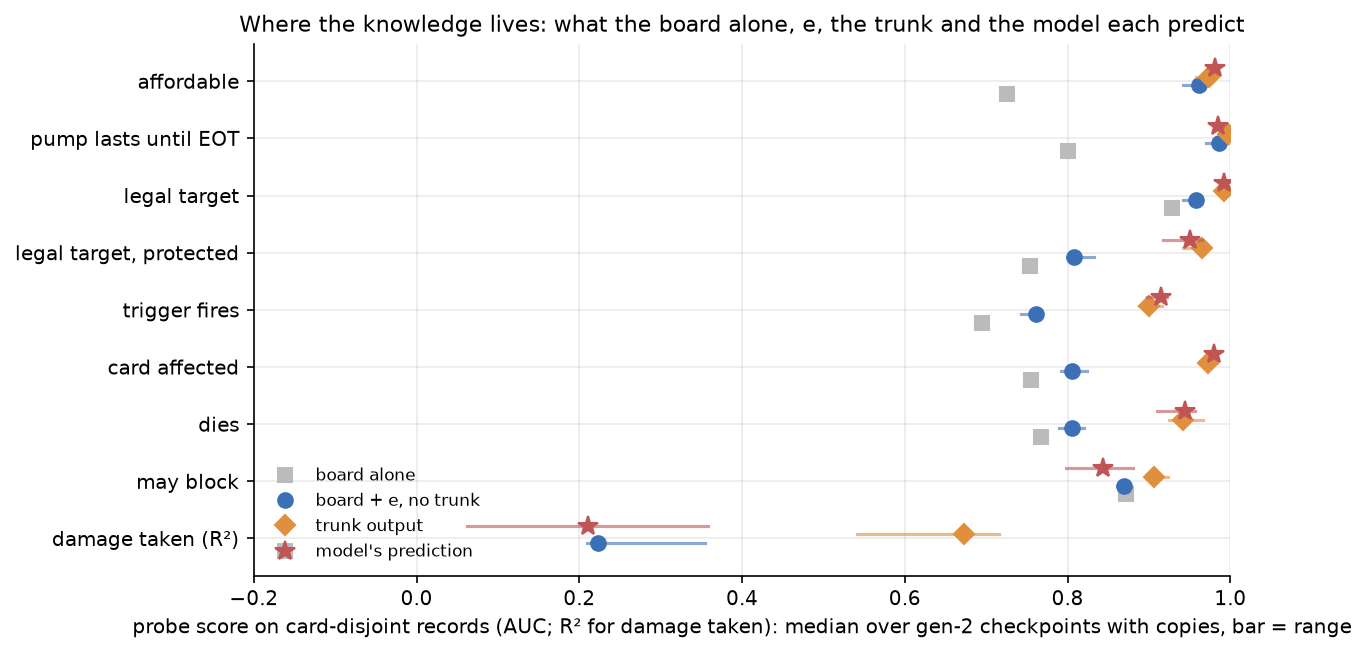
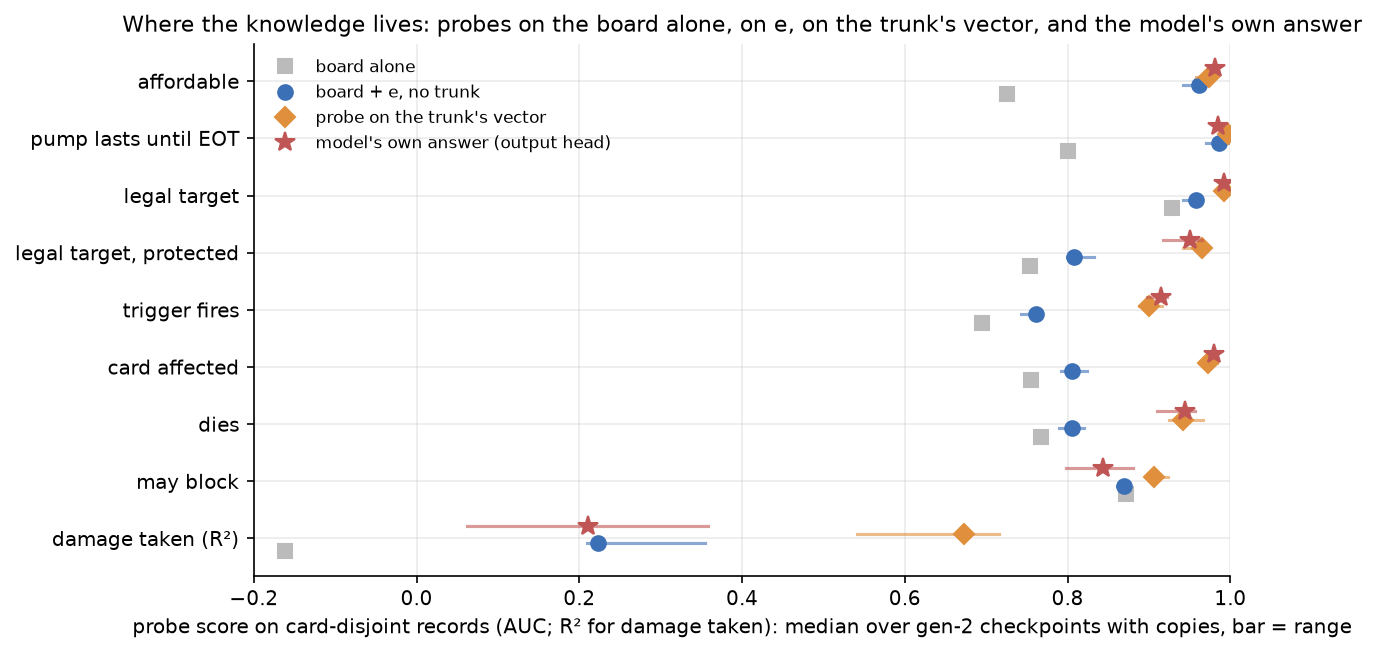
docs(effects): probes record says rung 2 is a probe on the trunk's vector and rung 3 the model's own answer, and what a gap between them means

diff --git a/scripts/effect_gen2_report/make_charts.py b/scripts/effect_gen2_report/make_charts.py
@@ -573,7 +573,8 @@ def ladder() -> None:
     gen2 = present(CHECKPOINTS[3:], lad.checkpoint)
     fig, ax = plt.subplots(figsize=(8.4, 4.6))
     styles = {"0": ("board alone", "#bbbbbb", "s"), "1": ("board + e, no trunk", "#3b6fb6", "o"),
-              "2": ("trunk output", "#e08f3c", "D"), "3": ("model's prediction", "#c05555", "*")}
+              "2": ("probe on the trunk's vector", "#e08f3c", "D"),
+              "3": ("model's own answer (output head)", "#c05555", "*")}
     for i, (target, label) in enumerate(targets):
         y = len(targets) - 1 - i
         for k, (rung, (name, colour, marker)) in enumerate(styles.items()):
@@ -589,9 +590,9 @@ def ladder() -> None:
     ax.set_xlim(-0.2, 1.0)
     ax.set_xlabel("probe score on card-disjoint records (AUC; R² for damage taken): median "
                   "over gen-2 checkpoints with copies, bar = range")
-    ax.legend(fontsize=8, loc="lower left")
-    ax.set_title("Where the knowledge lives: what the board alone, e, the trunk and the model "
-                 "each predict")
+    ax.legend(fontsize=8, loc="upper left")
+    ax.set_title("Where the knowledge lives: probes on the board alone, on e, on the trunk's "
+                 "vector, and the model's own answer")
     save(fig, "probe-ladder")
 
 

diff --git a/experiments/2026-09-19-effect-knowledge-probes-design.md b/experiments/2026-09-19-effect-knowledge-probes-design.md
@@ -6,7 +6,7 @@ Where knowledge lives matters because `e` is the part that gets reused. A future
 
 The suite has three kinds of measurement:
 
-- **The read-out ladder** fits small probes to inputs taken from progressively deeper in the model, from the board alone up to the model's own prediction, and measures how much of the model's knowledge `e` alone carries.
+- **The read-out ladder** fits small probes to inputs taken from progressively deeper in the model, from the board alone through the trunk's internal vectors, and sets them beside the answer the model itself gives. It measures how much of the model's knowledge `e` alone carries.
 - **Ablations** replace `e` in the trained model and measure how much each output field's loss rises.
 - **Board sweeps** edit one input of a real record, such as a target's toughness or the mana available, and read where the model's prediction steps.
 
@@ -18,9 +18,9 @@ A probe is scored by AUC for a yes/no question, the chance that a true case scor
 
 ![The read-out ladder for nine board targets](2026-09-18-effect-model-gen2/charts/probe-ladder.png)
 
-*For each question, the score of a probe on the board alone (grey), on the board plus `e` without the trunk (blue), on the trunk's output (orange), and of the model's own prediction (red). Points are the median over the gen-2 checkpoints trained with lethality copies; bars span their range. Data: `probe_ladder.csv`.*
+*For each question, the score of a probe on the board alone (grey), on the board plus `e` without the trunk (blue), on the trunk's internal vector for that card or ability (orange), and the model's own answer, read from its trained output head with no probe (red). Points are the median over the gen-2 checkpoints trained with lethality copies; bars span their range. Data: `probe_ladder.csv`.*
 
-**The model's damage prediction uses a fraction of what its trunk knows.** A probe reads about two thirds of the variance in each creature's damage taken from the trunk's output, while the model's own damage field explains a fifth of it at the median and a third at best.
+**The model's damage prediction uses a fraction of what its trunk knows.** A probe reads about two thirds of the variance in each creature's damage taken from the trunk's internal vector, while the model's own damage field explains a fifth of it at the median and a third at best.
 
 **Gen-2's `e` holds a line's costs and timing almost perfectly and most of its amounts, where gen-1's held little of either.** Costs and timing transfer to lines the model never trained on. Power and toughness changes do not ([line properties](#gen-2s-e-holds-a-lines-costs-and-timing-almost-perfectly-and-most-of-its-amounts)).
 
@@ -38,8 +38,10 @@ The ladder reads one question from inputs of increasing depth, and each input is
 
 - **Rung 0:** the board alone, with every `e` zeroed.
 - **Rung 1:** the board plus the acting ability's `e` and, for a question about one card, that card's own ability vectors, with no trunk.
-- **Rung 2:** the trunk's output at the relevant slot.
-- **Rung 3:** the model's own prediction.
+- **Rung 2:** a probe on the trunk's internal vector at the relevant slot, which shows what the trunk holds, whether or not the model uses it.
+- **Rung 3:** the model's own answer, read from its trained output head, with no probe.
+
+Rungs 2 and 3 read the same trunk in two ways. The probe at rung 2 is fitted to this one question alone. The output head at rung 3 was trained with every other output field at once, and is what the model actually answers. A gap between them is knowledge the trunk holds and the model's own answer does not use.
 
 Rungs 0 to 2 are read by the same small two-layer network, an MLP, fixed across every checkpoint. The share is (rung 1 − rung 0) / (rung 3 − rung 0): the fraction of the distance from the board alone to the model's prediction that `e` closes without any trunk. The chart at the top of this record shows the rungs per question, and the shares sort the questions into the groups below.
 
@@ -56,9 +58,9 @@ Rungs 0 to 2 are read by the same small two-layer network, an MLP, fixed across 
 *Data: `probe_ladder.csv`.*
 
 - **What the line states, `e` carries.** Whether an ability is affordable turns on its cost, and how long a pump lasts turns on its script. `e` alone closes nine tenths or more of the gap on both.
-- **What the board decides, the trunk works out.** Whether a creature dies, whether a trigger fires and which cards an ability affects depend on the board as much as on the line. `e` closes a fifth to a third of the gap, and the trunk's output carries the model's whole prediction.
+- **What the board decides, the trunk works out.** Whether a creature dies, whether a trigger fires and which cards an ability affects depend on the board as much as on the line. `e` closes a fifth to a third of the gap, and a probe on the trunk's vector reads as much as the model's own answer gives.
 - **Blocking is known from the board alone.** On whether a creature may block, a probe on the board alone already scores about as well as anything deeper, and on card-disjoint records the model's own prediction scores below it. The share is not defined there, because the model gains nothing over the board.
-- **The trunk knows more about damage than the model says.** A probe reads about two thirds of the variance in damage taken from the trunk's output at a creature's slot. The model's own damage field explains a fifth of it at the median and a third at best. The information reaches the trunk and is not used by the head that should read it.
+- **The trunk knows more about damage than the model says.** A probe reads about two thirds of the variance in damage taken from the trunk's vector at a creature's slot. The model's own damage field explains a fifth of it at the median and a third at best. The information reaches the trunk and is not used by the head that should read it.
 
 The groups are robust: the lowest share among the first two questions is about twice the highest among the last four, across all eleven checkpoints. The 256-wide arm sorts its questions the same way as the narrower ones, so four times the width of `e` does not move deaths or trigger firing into the vector. The game-disjoint records sort the questions about the same way. A protected target's legality drops to no share there, because `e` adds nothing over the board on those records.
 
